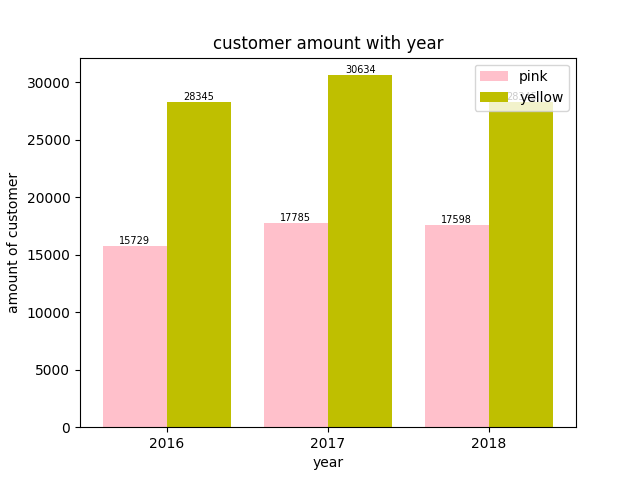
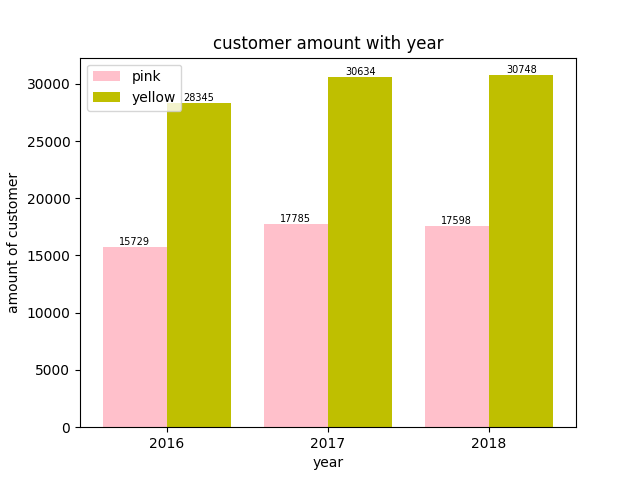
a

diff --git a/read.py b/read.py
@@ -617,7 +617,7 @@ def plotyear(p16,p17,p18,y16,y17,y18,p_profit,y_profit,p_tran,y_tran,p_km,y_km,g
     for a,b in zip(x,y615):
         plt.text(a,b/2,'%.3f'%b,ha='center',va='center',fontsize=7)
     for i in range(0,3):
-        plt.text(x[i],y615[i]+y67[i]/2,'%.3f'%y617[i],ha='center',va='center',fontsize=7,)   
+        plt.text(x[i],y615[i]+y617[i]/2,'%.3f'%y617[i],ha='center',va='center',fontsize=7,)   
         plt.text(x[i],y615[i]+y617[i]+y619[i]/2,'%.3f'%y619[i],ha='center',va='center',fontsize=7,)
         plt.text(x[i],y615[i]+y617[i]+y619[i]+y621[i]/2,'%.3f'%y621[i],ha='center',va='center',fontsize=7,)
     plt.xlabel(u'year')
@@ -649,7 +649,7 @@ def plotyear(p16,p17,p18,y16,y17,y18,p_profit,y_profit,p_tran,y_tran,p_km,y_km,g
 
     #cust amount with year
     y71=[len(p16g),len(p17g),len(p18g)]
-    y72=[len(y16g),len(y17g),len(y16g)]
+    y72=[len(y16g),len(y17g),len(y18g)]
     plt.figure(10)
     plt.bar(x,y71,width=width,color='pink',label='pink')
     plt.bar(x+width,y72,width=width,color='y',label='yellow')
@@ -659,7 +659,7 @@ def plotyear(p16,p17,p18,y16,y17,y18,p_profit,y_profit,p_tran,y_tran,p_km,y_km,g
         plt.text(a,b,'%.f'%b,ha='center',va='bottom',fontsize=7)
     for a,b in zip(x+width,y72):
         plt.text(a,b,'%.f'%b,ha='center',va='bottom',fontsize=7)
-    plt.legend()
+    plt.legend(loc=2)
     plt.xlabel(u'year')
     plt.ylabel(u'amount of customer')
     plt.title('customer amount with year',loc='center')
@@ -860,11 +860,8 @@ def plotyear(p16,p17,p18,y16,y17,y18,p_profit,y_profit,p_tran,y_tran,p_km,y_km,g
     plt.savefig(fname='ageinc.png',dpi=100)
 
     #tran per cust with year
-    y101=[0,0,0]
-    y102=[0,0,0]
-    for i in range(0,3):
-        y101[i]=y11[i]/y71[i]
-        y102[i]=y12[i]/y72[i]
+    y101=[25079/15729,30321/17785,29310/17598]
+    y102=[82239/28345,98189/30634,94253/30748]
     plt.figure(16)
     plt.bar(x,y101,width=width,color='pink',label='pink')
     plt.bar(x+width,y102,width=width,color='y',label='yellow')
@@ -1092,9 +1089,9 @@ def mixplot(p_tran,y_tran,p_profit,y_profit,dataaget1,datainct1):
     xlabels=['18-25','26-40','41-60','>60']  
     plt.xticks([i+width/2 for i in x],xlabels)
     for a,b in zip(x,y31):
-        plt.text(a,b,'%.f'%b,ha='center',va='bottom',fontsize=7)
+        plt.text(a,b,'%.2f'%b,ha='center',va='bottom',fontsize=7)
     for a,b in zip(x+width,y32):
-        plt.text(a,b,'%.f'%b,ha='center',va='bottom',fontsize=7)
+        plt.text(a,b/2,'%.2f'%b,ha='center',va='bottom',fontsize=7)
     plt.legend()
     plt.xlabel(u'age group')
     plt.ylabel(u'average profit')
@@ -1112,9 +1109,9 @@ def mixplot(p_tran,y_tran,p_profit,y_profit,dataaget1,datainct1):
     xlabels=['<3500','3500-15000','>15000']  
     plt.xticks([i+width/2 for i in x],xlabels)
     for a,b in zip(x,y41):
-        plt.text(a,b,'%.f'%b,ha='center',va='bottom',fontsize=7)
+        plt.text(a,b,'%.2f'%b,ha='center',va='bottom',fontsize=7)
     for a,b in zip(x+width,y42):
-        plt.text(a,b,'%.f'%b,ha='center',va='bottom',fontsize=7)
+        plt.text(a,b/2,'%.2f'%b,ha='center',va='bottom',fontsize=7)
     plt.legend()
     plt.xlabel(u'income group')
     plt.ylabel(u'average profit')
@@ -1171,7 +1168,7 @@ def plotmonth(p_tran,y_tran,p_km,y_km,p_profit,y_profit,psp,psu,pau,pwi,ysp,ysu,
     plt.title('profit with seasons',loc='center')
     plt.savefig(fname='profsea.png',dpi=100)
 
-    #tran with year
+    #tran with season
     y21=[pspt,psut,paut,pwit]
     y22=[yspt,ysut,yaut,ywit]
     plt.figure(25)
